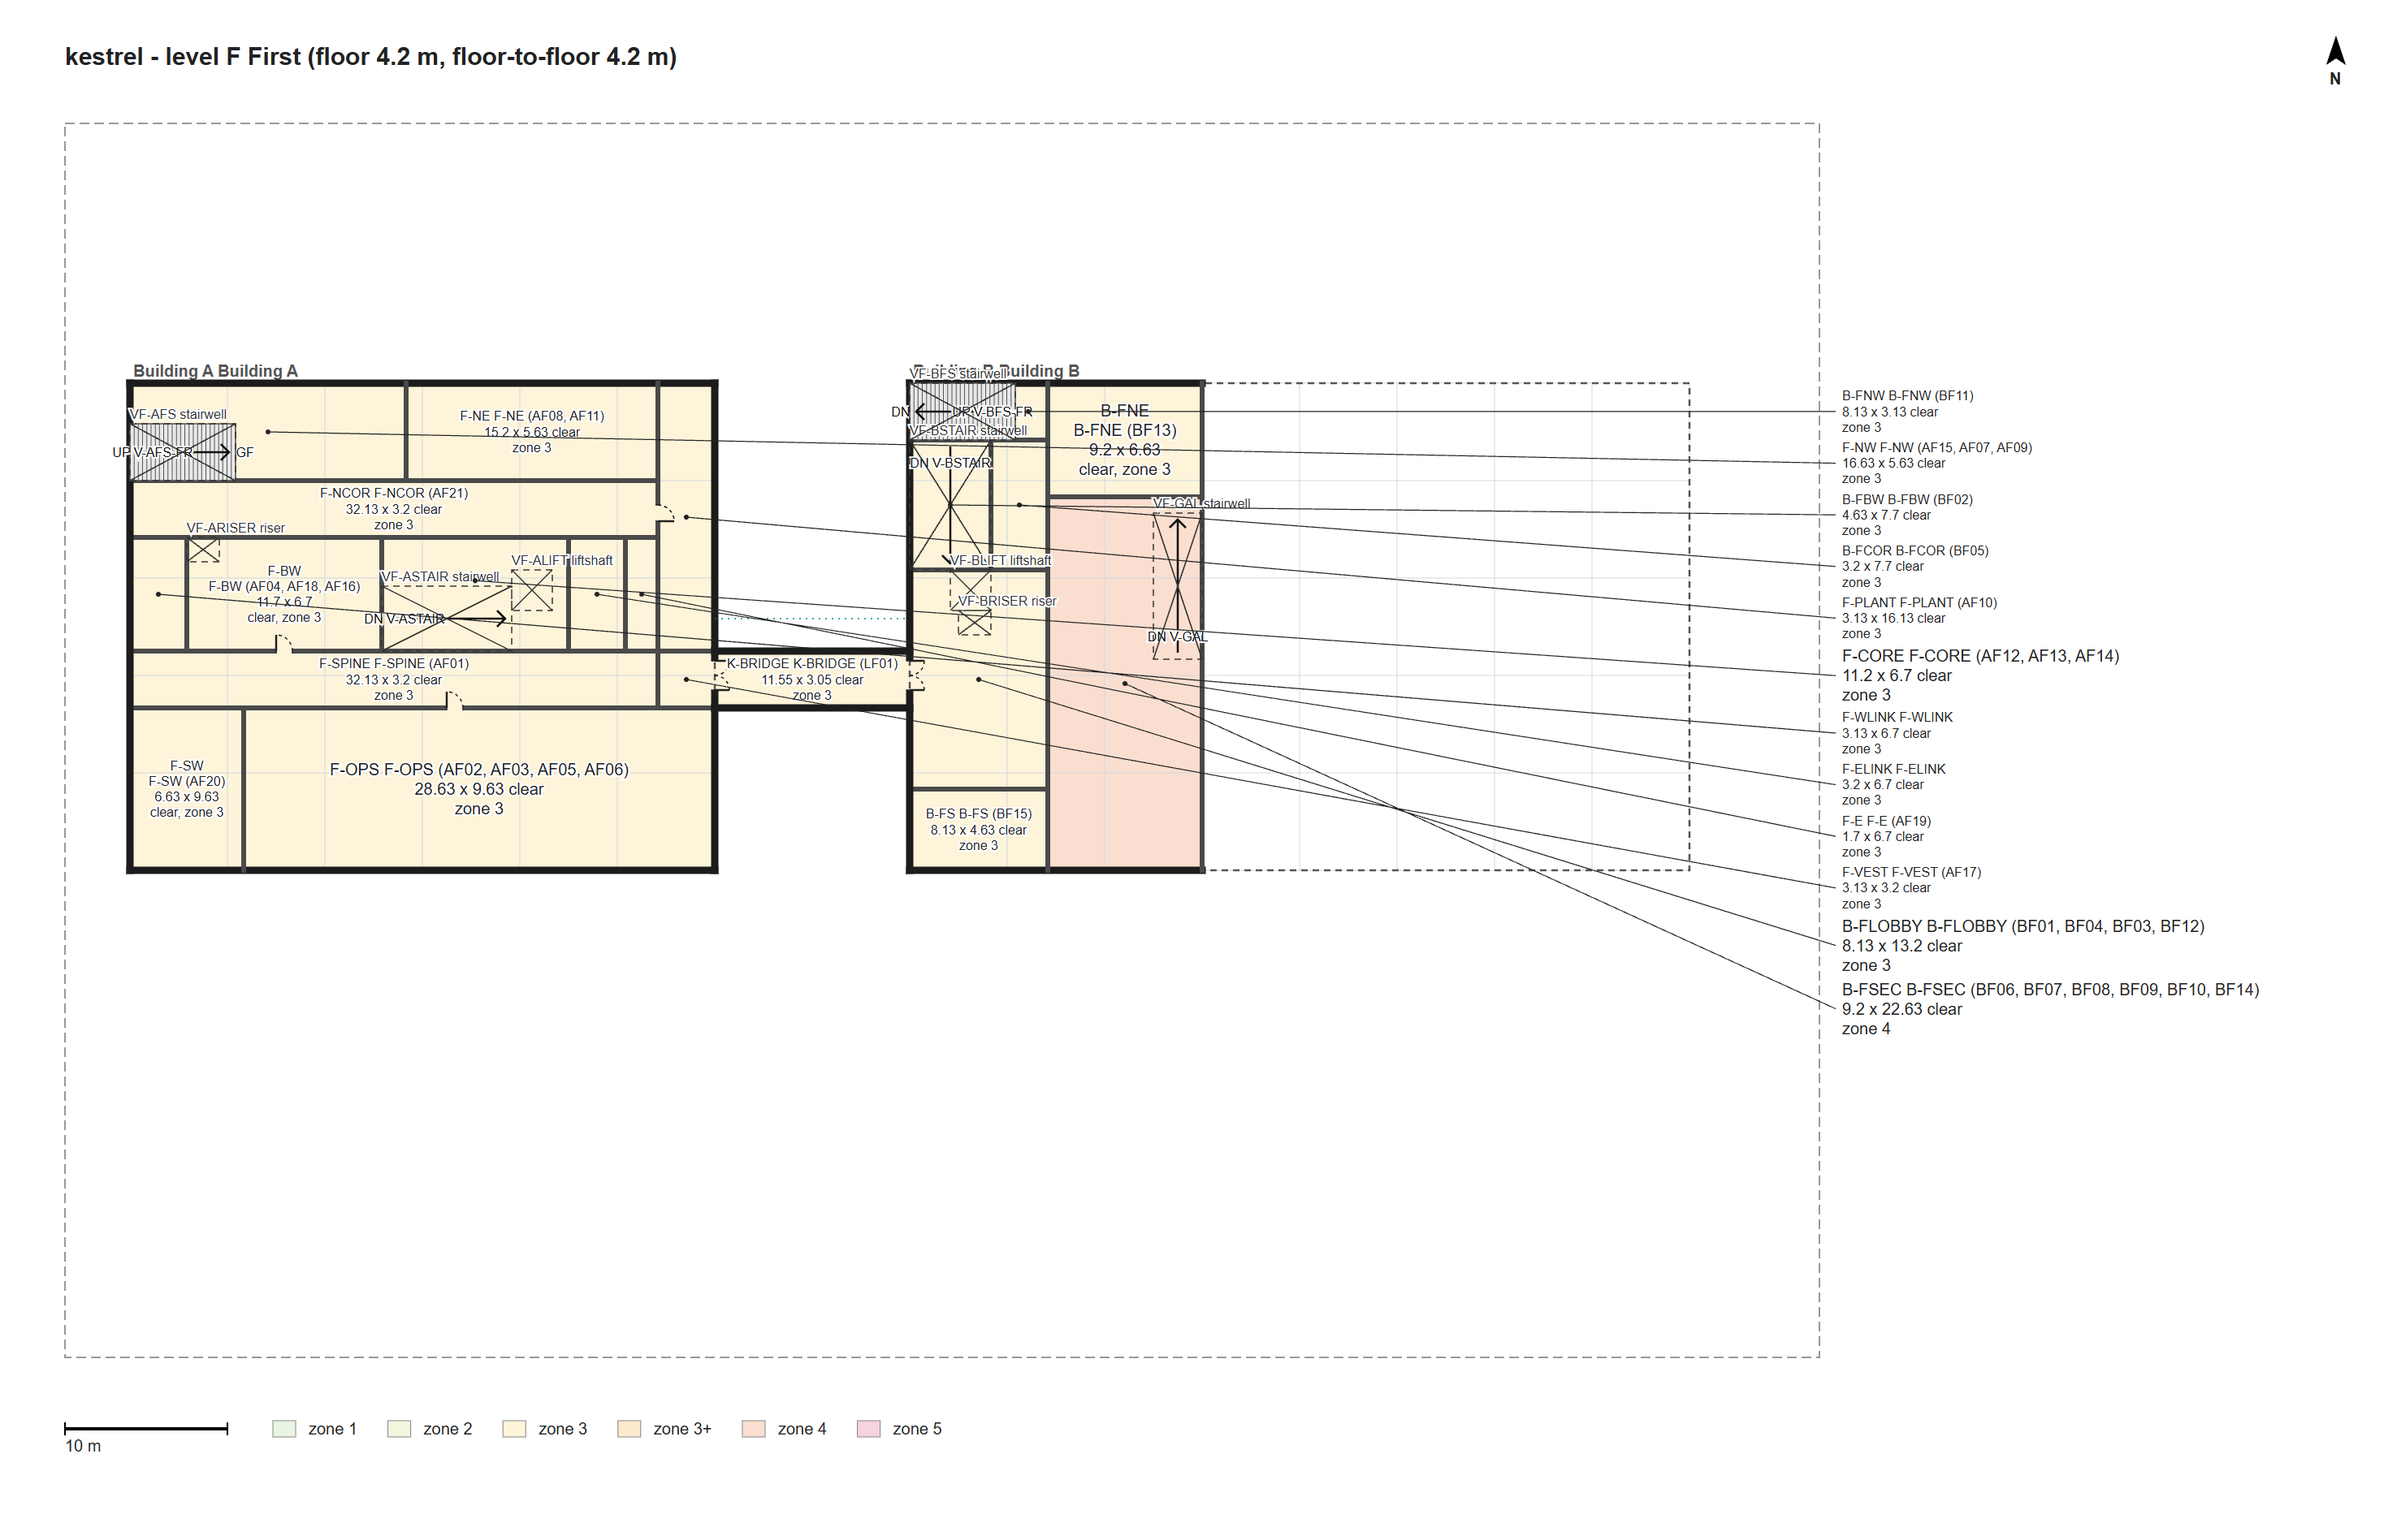
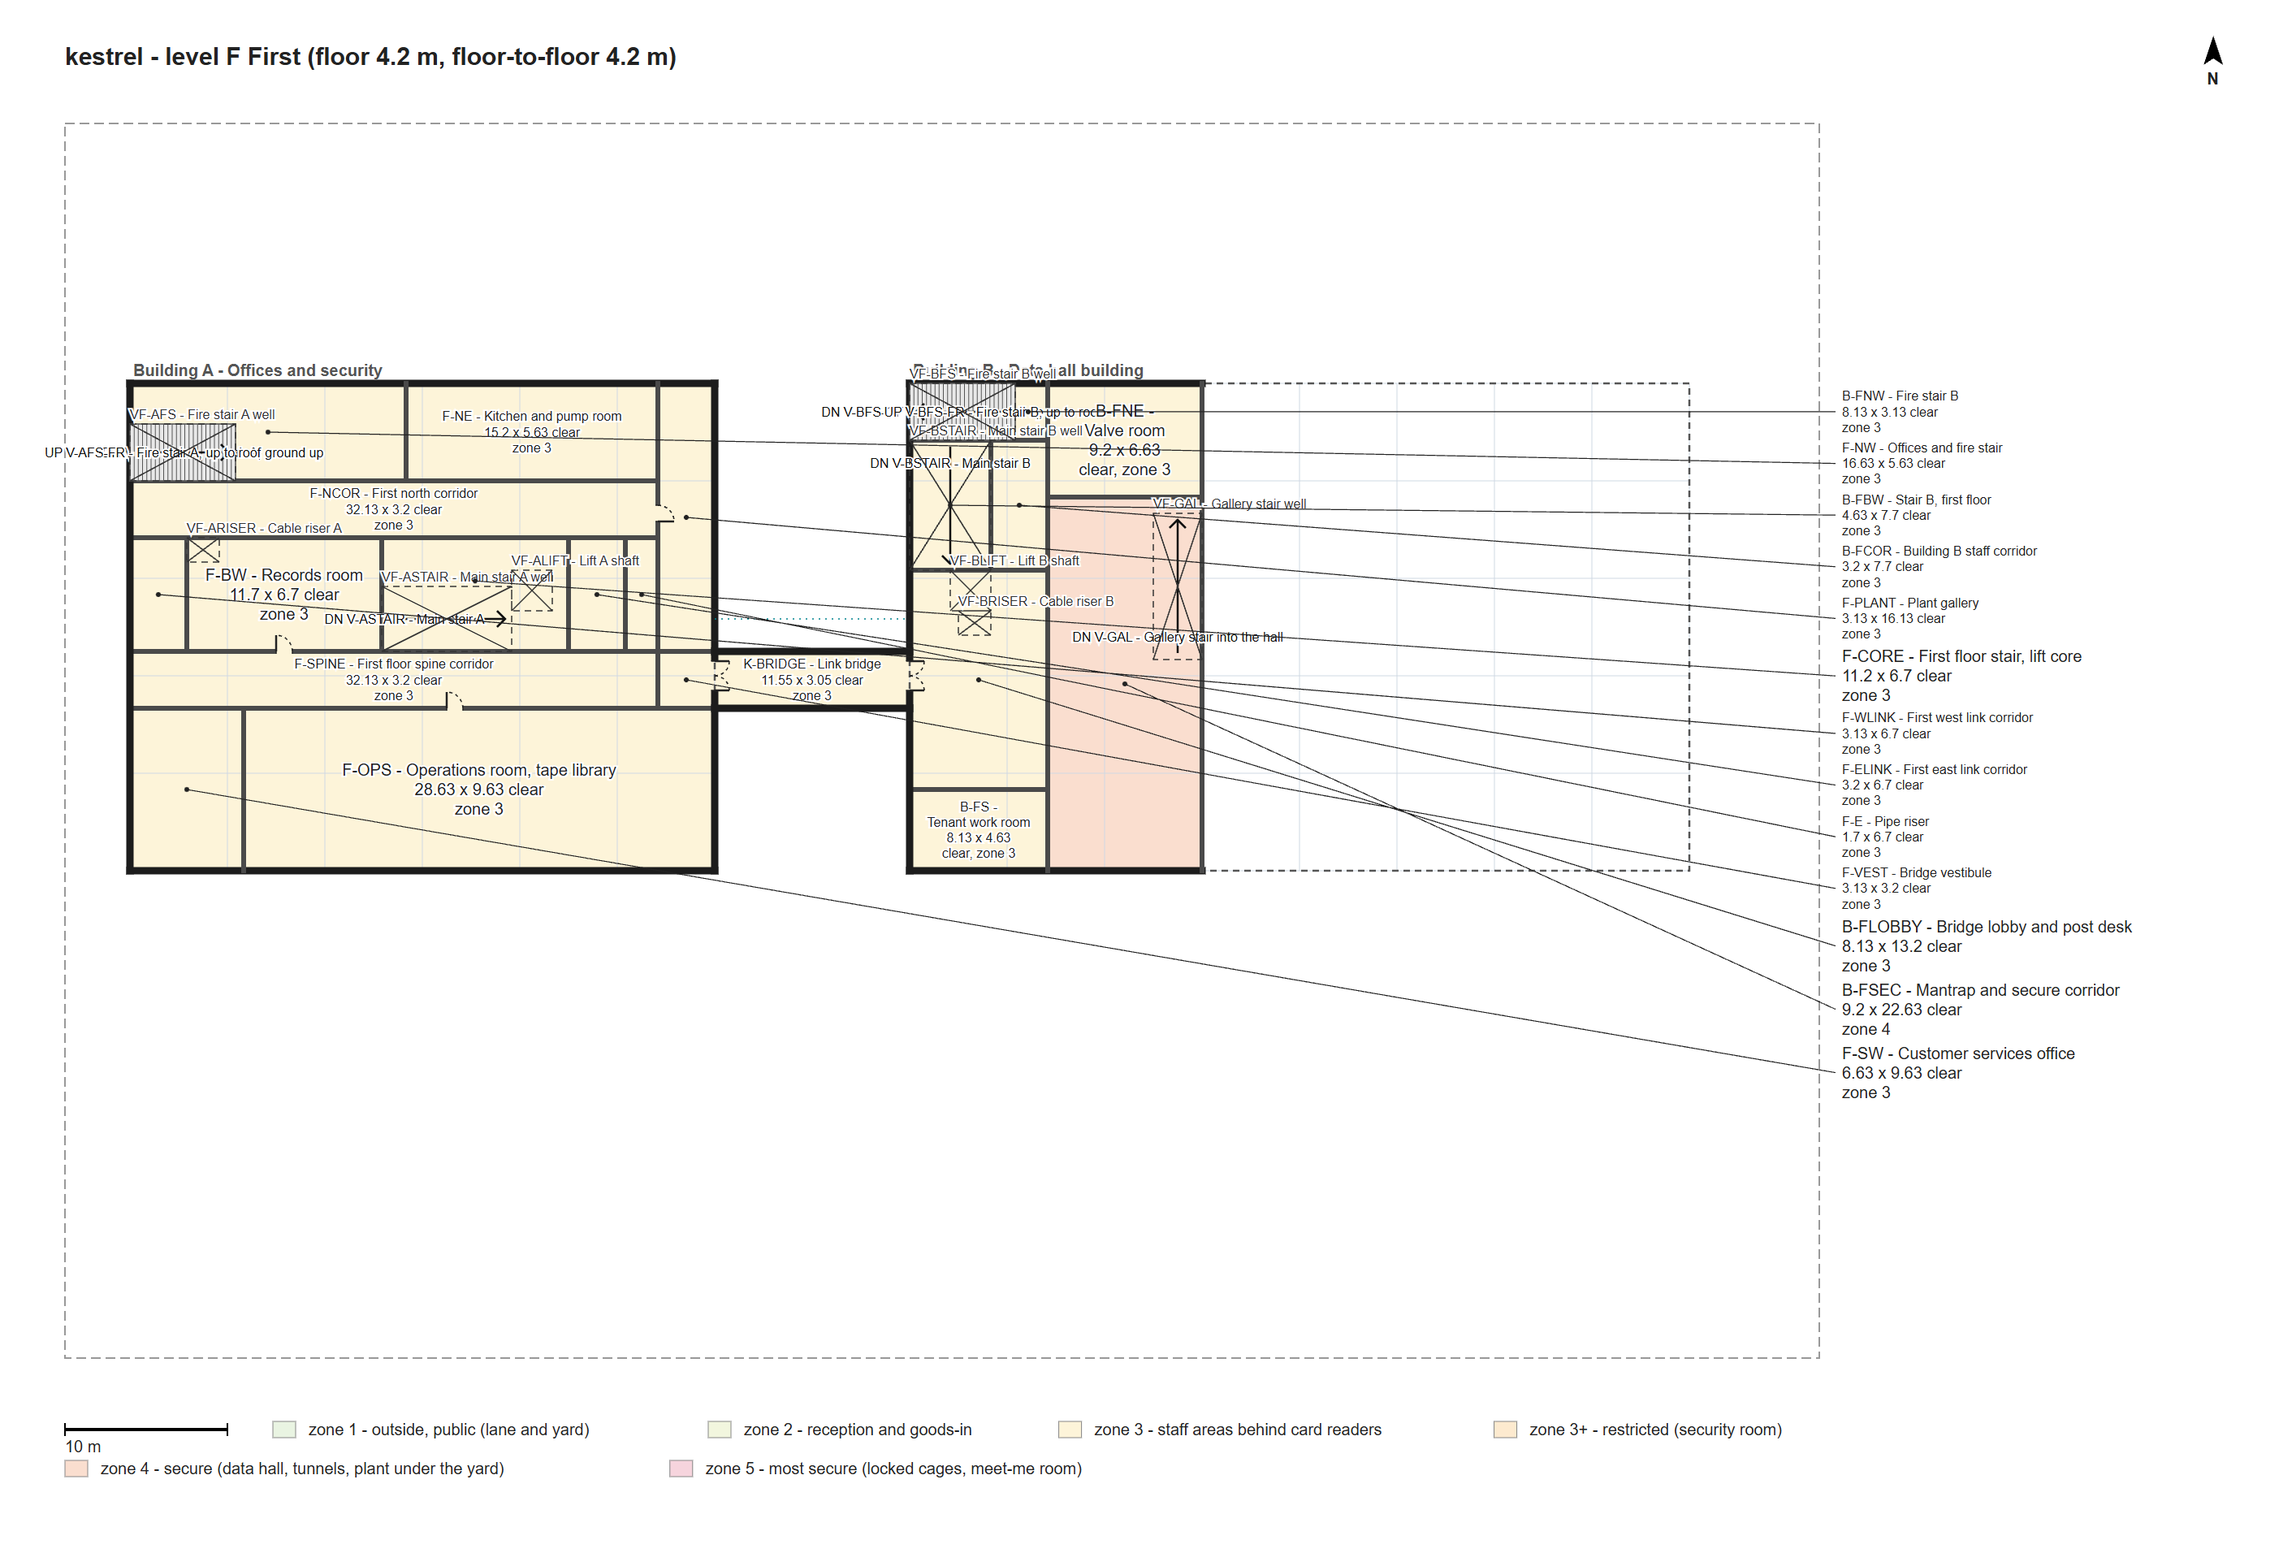
kestrel P03B 2f: plain names and worded zone legend on the plans

diff --git a/docs/kestrel/progress.md b/docs/kestrel/progress.md
@@ -47,6 +47,7 @@ Planning handover (decisions not yet in the briefs, stage order, working rules):
 | P11 | Playtest triage | not started | | |
 
 ## Log (newest first)
+- 2026-10-11 P03B 2f: names added to 87 zones, 7 stairs, 6 ladders, 16 voids and both buildings (116 of 116 named once, none over 30 characters, none with an id inside); legend worded (zone 2 and 4 per reviewer fixes; zone 5 text still says locked cages, which sit in zone 4 hall - reviewer to confirm); labels "<id> - <name>". 13 checks unchanged (blocks 11/25/2/7/32 fails 0; tests 8, 61, 30; check.mjs 22 PASS, 2 WARN, 4 FAIL; zones 27/19/26; vert 17; ring 35; adjacency 34+26; path 499.0). Names-only JSON diff: same apart from names. Small label overlaps on stairs, bridge ladders, Building B label.
 - 2026-10-11 Planner: Michael's fix before approving P03B Part 2: plans unreadable by id. prompts/P03B-2f.md (Sonnet medium, 12 decisions): plain names for 87 zones, 7 stairs, 6 ladders, 16 voids and both buildings from the 03B zone tables and brief rooms; labels "<id> - <name>" once; worded zone legend (brief l.47, l.95, section 6); names avoid A30's WC / janitor words; names-only JSON diff; 13 checks must equal 03B section 11.
 - 2026-10-11 P03B 2e: all 13 checks match expected. blocks standards 11/25/2/7/32 fails 0 info 2; tests 8, 61, 30 pass; check.mjs 22 PASS, 2 WARN, 4 FAIL, 8 SKIP, 1 INFO; zones 27/15, 19/10, 26 rows 126; vert 17 info 2; ring 35 info 2; adjacency 34+26; path 499.0, coverage 14/6/7; plans 7 pairs (blocks-B,U,G,F,H,L,R.png). Expected FAILs (tools revision before P04): A07 RA14 RB11; A09 RA13 RA14 RB05 RB15 RB17; A12 V-LAD1-3; A29 RB01. WARNs A10 RA11/RA12, A18. Plan labels show id twice (name = id, P04 renames). 03B section 11 added, status Part 2 done. No ASKs.
 - 2026-10-11 Planner: review of P03B 2d-2b: realistic and flows; rerun reproduces every line (generator doors 25 fails 0; tests standards 8, check 61, expand 30 pass; check.mjs 22 PASS, 2 WARN, 4 FAIL; Part 1 checks zones 27/19/26, vert 17, ring 35, adjacency 34 + 26, path 499.0, all fails 0); JSON matches decisions (RB15 at 5.5 on WG017, gates full height). No duplicate lines; the 2d-2b log has no RB01 wording slip. Michael's fixes: .gitattributes (LF for json, mjs, md; renormalize changed no tracked file; working copies refreshed; git status clean after the generator). Plan render prototype: 7 levels draw; zone labels show the id twice (name = id). prompts/P03B-2e.md (Sonnet medium, 6 decisions).

diff --git a/docs/kestrel/schema.md b/docs/kestrel/schema.md
@@ -99,6 +99,7 @@ Three JSON files describe the map before any code: `kestrel.arch.json` (the buil
 | voids[].id, level | Unique id and the level whose floor has the hole |
 | voids[].rect, kind | Hole rect, and what it is (well, shaft, riser, hatch, roof light) |
 | voids[].reason | Why the floor is open here (level-design 16.3.2) |
+| stairs[].name, ladders[].name, voids[].name | Optional. Short plain name for the plan label (Michael, 2026-10-11) |
 | objects[].id, level | Unique id and level |
 | objects[].name | The real object (rack, transformer, skip) |
 | objects[].rect | Footprint on the 0.1 m grid |
@@ -232,7 +233,7 @@ Drawing conventions the renderer chose where this schema is silent:
 - An exterior element or service is drawn on every level whose height span it touches.
 - An object id that does not fit inside the object (each rack of a row) is left off the plan.
 - A room label that does not fit inside its room clear of the stairs, voids and objects (for example a stair core filled by its stair) goes to a callout column right of the site, with a leader line to a dot in the room.
-- With `meta.buildings`, every plan draws each building footprint as a dashed outline labelled `Building <id> <name>`. With two or more buildings the bay grid is drawn per building, anchored on that building's own corner, inside its footprint; with one building or none, across the site from the footprint corner, as before. The site outline is unchanged.
+- With `meta.buildings`, every plan draws each building footprint as a dashed outline labelled `Building <id> - <name>`. With two or more buildings the bay grid is drawn per building, anchored on that building's own corner, inside its footprint; with one building or none, across the site from the footprint corner, as before. The site outline is unchanged.
 - On a level with its own footprint whose height span overlaps another level's (`H` beside `F`), an exterior element or service is drawn only where it touches that footprint (grown by twice the exterior wall thickness). Other levels draw every element in their height span, as before.
 
 ## 6. Checker (scripts/kestrel/check.mjs)

diff --git a/docs/kestrel/lessons.md b/docs/kestrel/lessons.md
@@ -39,3 +39,4 @@ Collected stage by stage; turned into the map template at P11 (Michael, 2026-10-
 - P03B 2d-2a: deriving each opening's wall, `at` and `between` in code from a centre and width (and failing on an off-grid `at`) removed the hand arithmetic; prompts should give centres and let the generator find the wall.
 - P03B 2d-2b: a single table of centres plus widths covered 17 openings in one run; when a reviewer moves one centre (RB15), the prompt FIXES line plus unchanged counts keeps the run a one-pass check.
 - P03B 2e: a closing part that only runs checks and renders plans, with each expected summary line in the prompt, finished in one pass; keep final check sessions data-free.
+- Plans need plain names from the first render; ids alone are unreadable to the person approving.

diff --git a/docs/kestrel/03B-block-plan.md b/docs/kestrel/03B-block-plan.md
@@ -591,6 +591,7 @@ Rows per For: Michael 0, P03R 13, P04 13, P06 1.
 | 13 | `plans.mjs kestrel.campus.blocks.json` | wrote 7 SVG + PNG pairs |
 
 Plans: docs/kestrel/plans/blocks-<L>.png for B, U, G, F, H, L, R (Part 2e)
+Part 2f (Michael, 2026-10-11): plain names on every zone, site piece, tunnel, roof and vertical piece; worded zone legend; checks unchanged.
 
 Expected fails, all for the tools revision before P04 or for P04 (handover Notes): FAIL A07 (RA14, RB11 sit 0.5 m from a wall end); FAIL A09 (fire-stair doors RA13, RA14, RB05, RB15, RB17 sit at stair ends); FAIL A12 (ladders V-LAD1-3 stand on roofs, not plant or shaft rooms); FAIL A29 (RB01 joins ring 1 to ring 3). WARN A10 (RA11 and RA12 face each other across the bridge corridor); WARN A18 (split-jump gaps).
 
